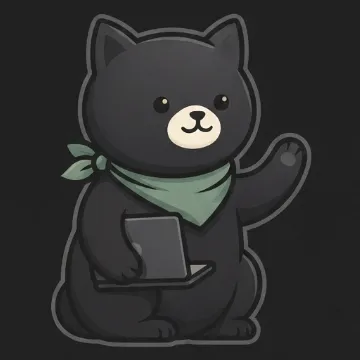
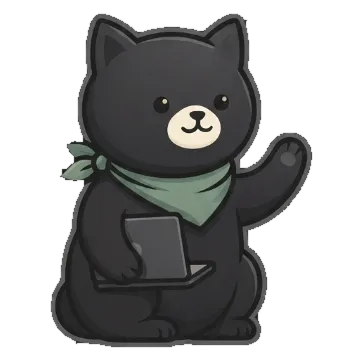
fix: make mascot artwork backgrounds transparent

diff --git a/README.md b/README.md
@@ -10,7 +10,7 @@ The homepage links a PDF CV at `/cv/muhammad-meganata-adam-cv.pdf` (hero button 
 
 ## Portfolio design and motion
 
-The Astro pages follow `my-personal-site.pen`: charcoal/Geist styling, responsive timelines, location details, and static Contact, 404, and search-empty mascots. Existing CV and article data remain authoritative.
+The Astro pages follow `my-personal-site.pen`: charcoal/Geist styling, responsive timelines, location details, and static Contact, 404, and search-empty mascots. The header icon and static mascots use transparent alpha backgrounds for both themes. Existing CV and article data remain authoritative.
 
 The Home sage light uses an 18-second CSS drift; icon feedback supports hover and keyboard focus. The GPT Image walking sprite uses the browser's Web Animations API and follows the mouse in desktop side gutters without covering the reading column. Pause/Resume is available; hidden tabs, mobile, and reduced-motion do not run the walking animation. Layered Lottie body-part reactions are not included.
 
